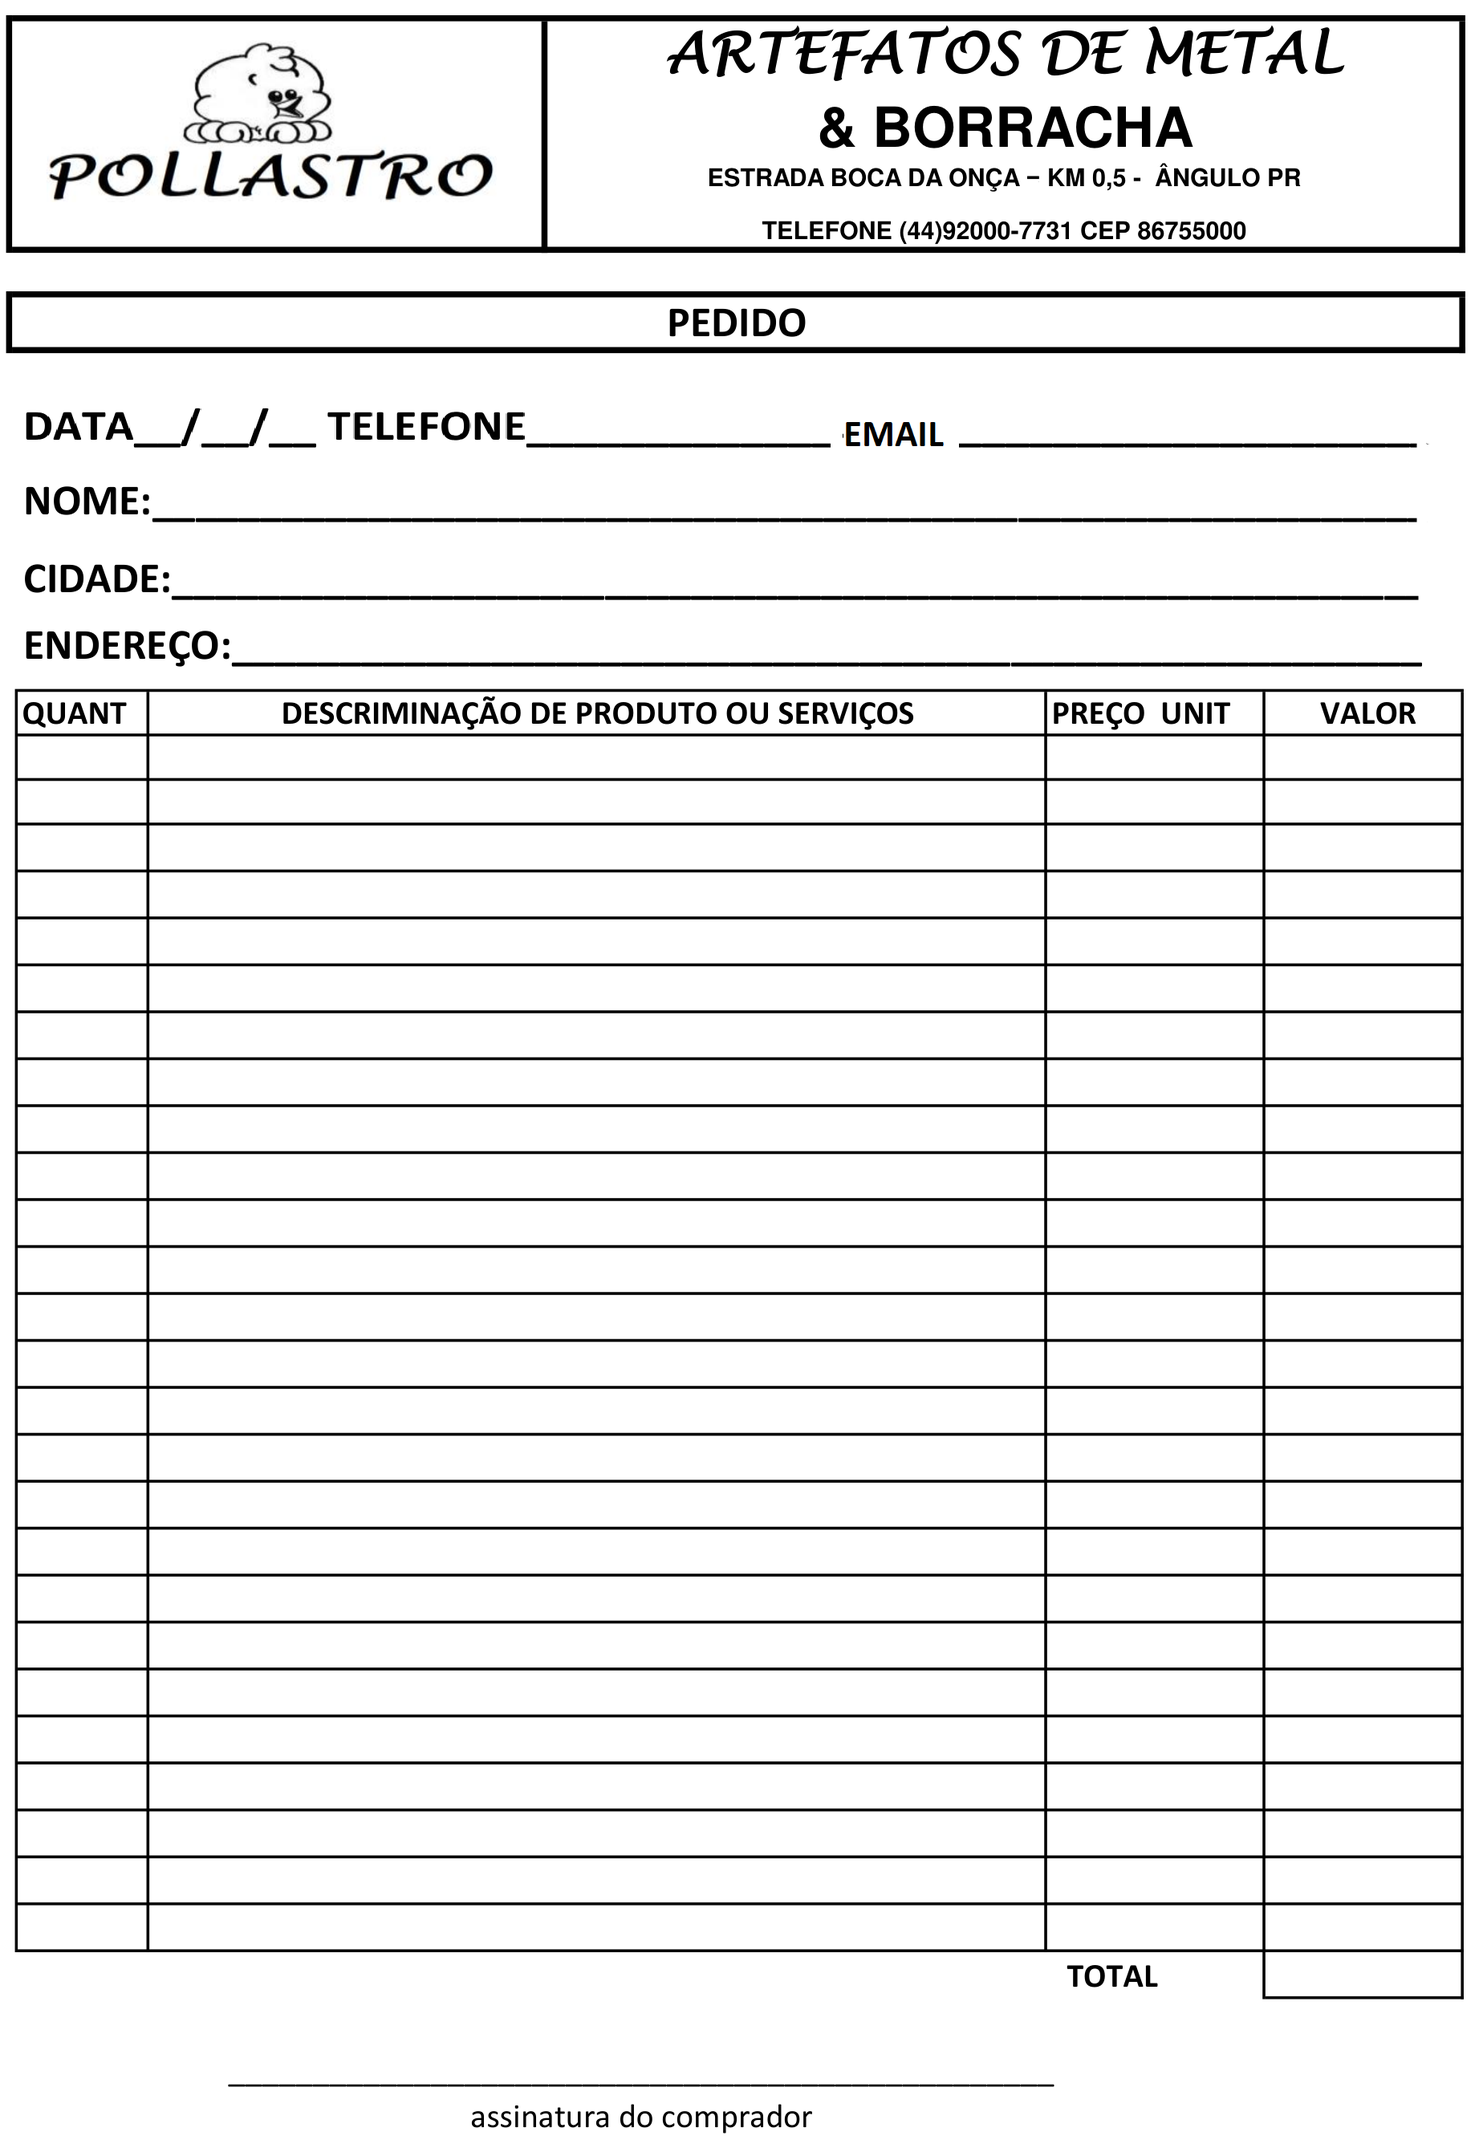
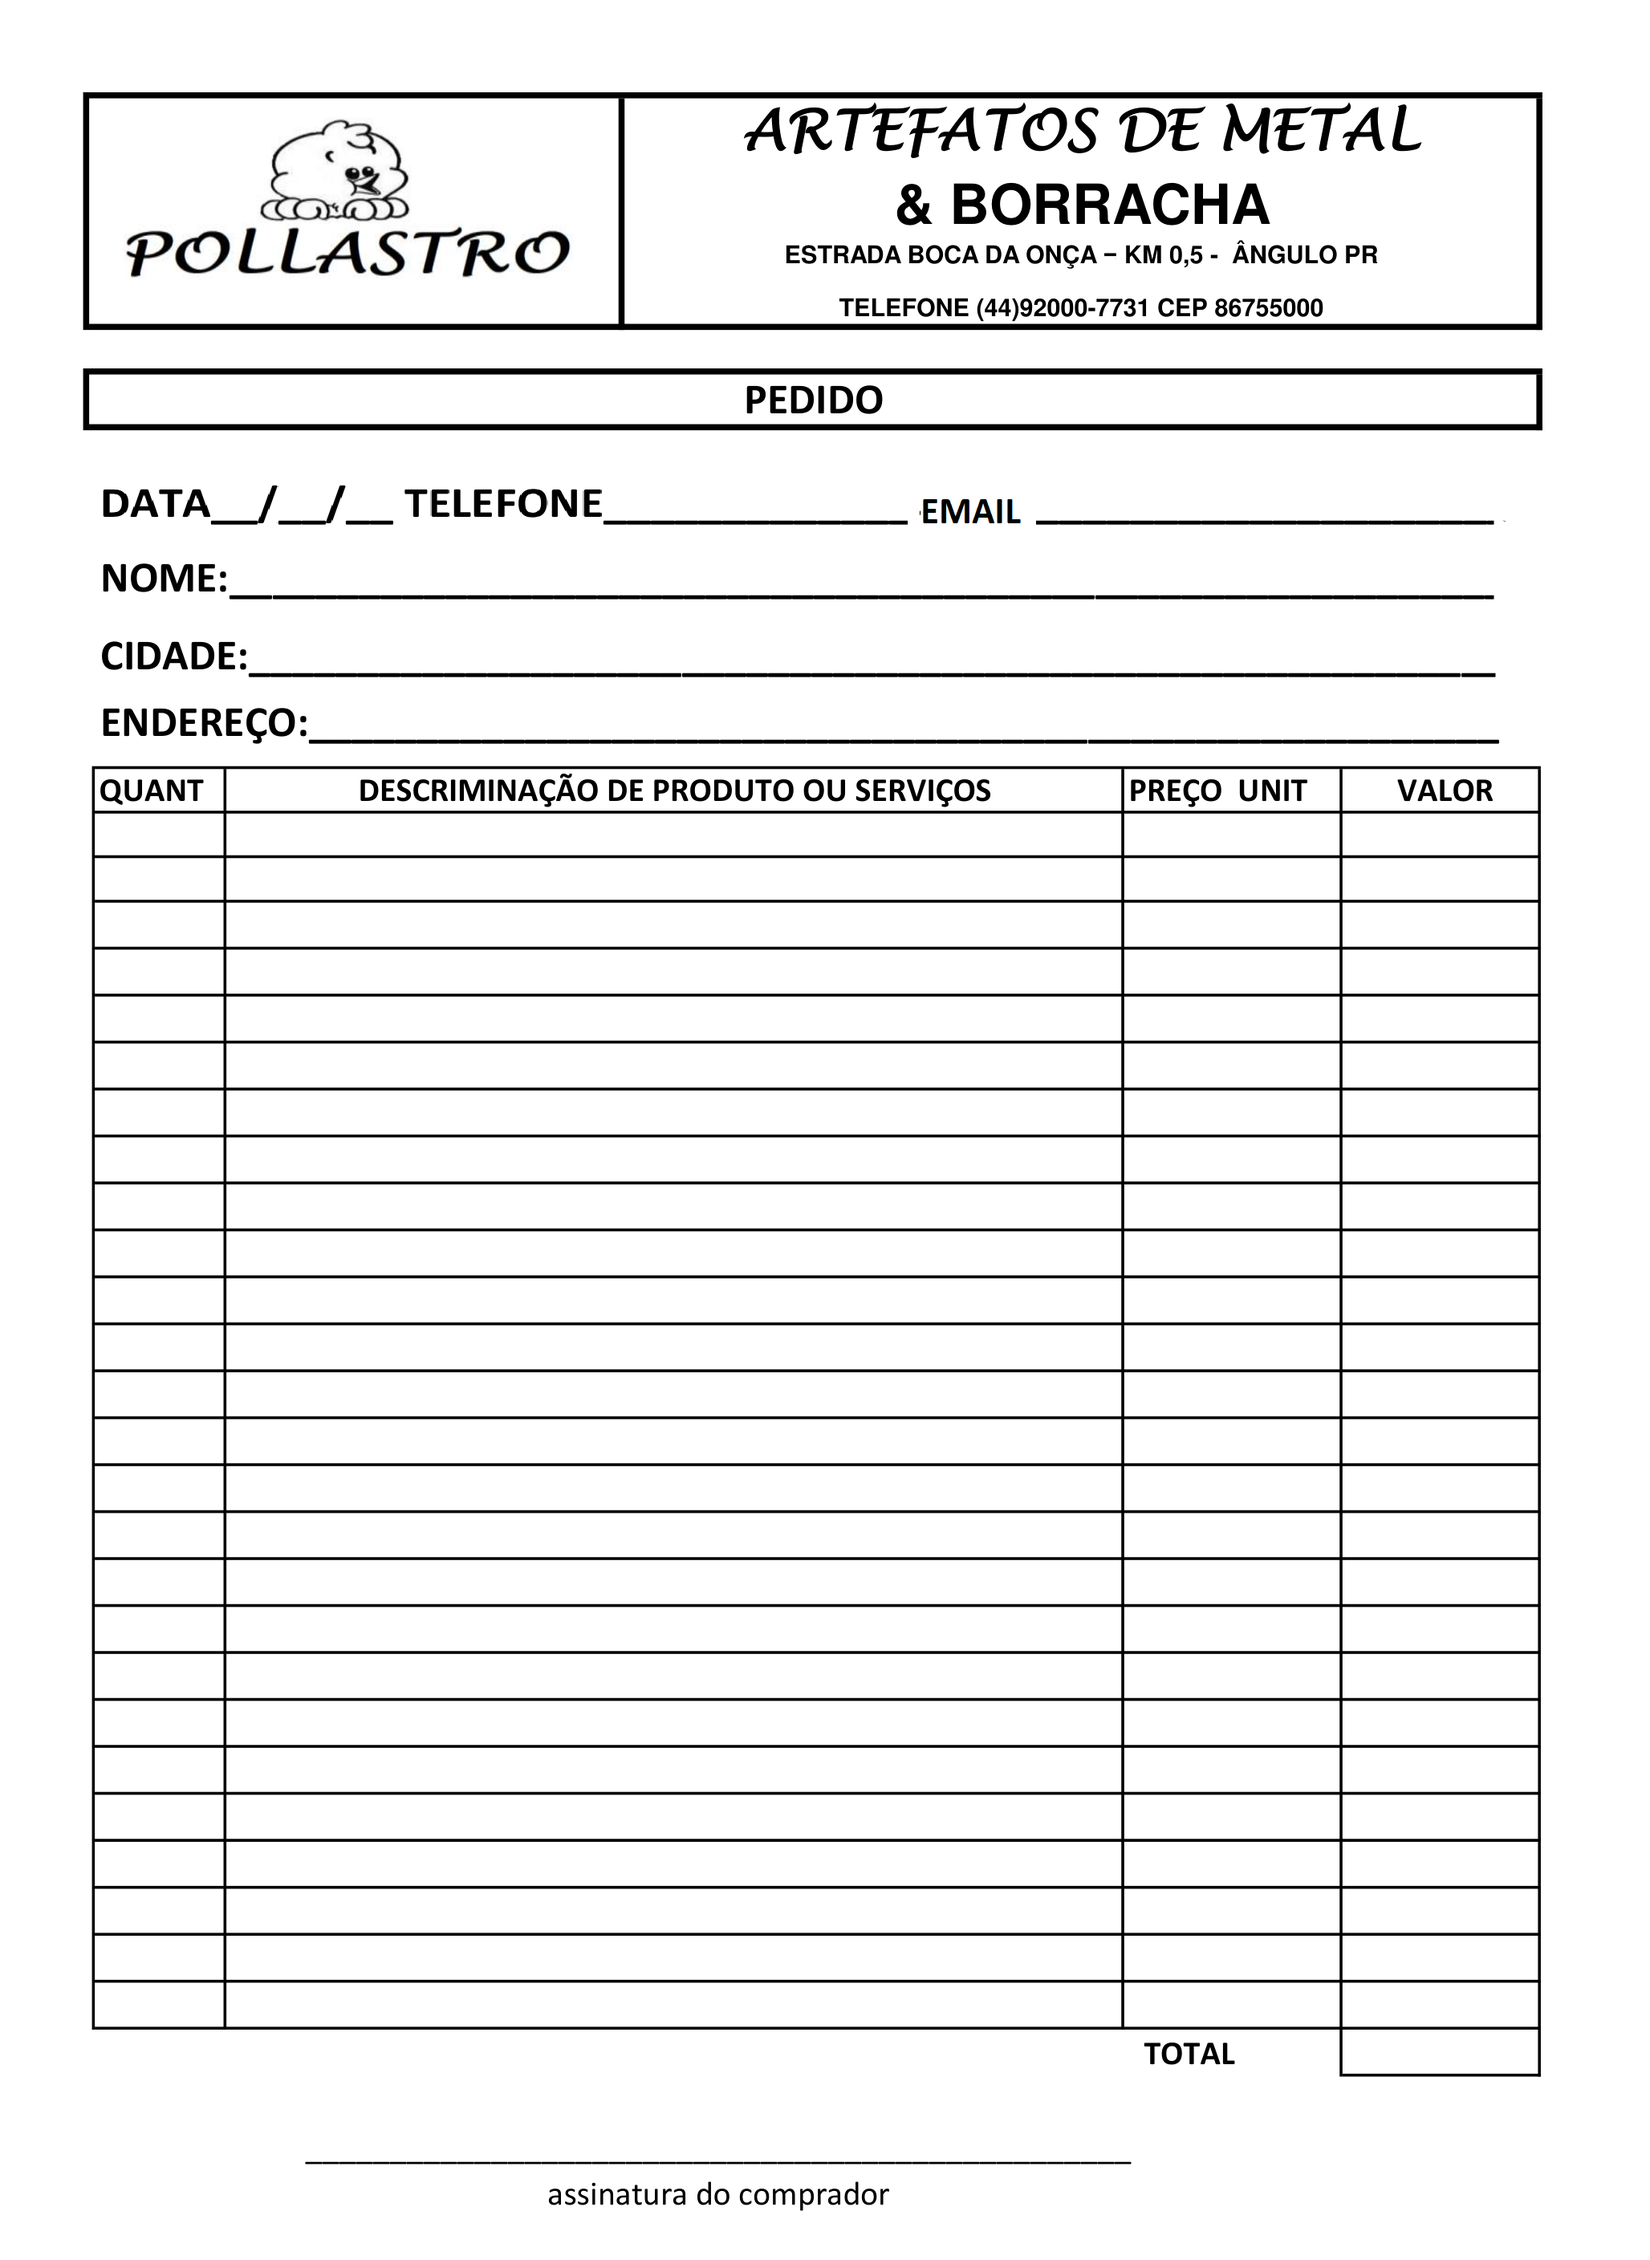
ajustes da nota gerada

Changed region(s): [[0.0, 0.0, 1.0, 0.9319], [0.3093, 0.9629, 0.5567, 0.994]]

diff --git a/frontend/src/components/notaPdfGenerator.tsx b/frontend/src/components/notaPdfGenerator.tsx
@@ -24,59 +24,71 @@ interface NotaData {
 
 
 export async function gerarNotaPDF(nota: NotaData) {
-  const pdfDoc = await PDFDocument.create();
-  const page = pdfDoc.addPage([595, 842]); // tamanho A4 em pontos
-
-  const bgImageBytes = await fetch(backgroundImage).then(res => res.arrayBuffer());
-  const bgImage = await pdfDoc.embedPng(bgImageBytes);
-  page.drawImage(bgImage, {
-    x: 0,
-    y: 0,
-    width: page.getWidth(),
-    height: page.getHeight(),
-  });
-
-  const font = await pdfDoc.embedFont(StandardFonts.Helvetica);
-  const drawText = (text: string, x: number, y: number, size = 15) => {
-    page.drawText(text, {
-      x,
-      y,
-      size,
-      font,
-      color: rgb(0, 0, 0),
-    });
-  };
-
-  // Cabeçalho
-    drawText(nota.data.split("/")[0], 53, 669, 20);               // Data no canto superior direito
-    drawText(nota.data.split("/")[1], 80, 669, 20);               // Data no canto superior direito
-    drawText(nota.data.split("/")[2], 107, 669, 20);               // Data no canto superior direito
-    drawText(nota.telefone, 215, 669);           // Telefone no centro superior
-    drawText(nota.email, 390, 669, 12);              // Email mais à direita
-
-    drawText(String(nota.nome), 65, 640);                // Nome
-    drawText(nota.cidade, 72, 610);             // Cidade
-    drawText(":" + nota.numero + " - Sistema", 330, 708, 20);         // Número da nota no canto superior direito
-
-  // Produtos
-  let y = 537;
-  let total = 0;
-nota.produtos.forEach((item) => {
-  drawText(item.quantidade.toString(), 8, y);                            // Quantidade
-  drawText(item.nome, 60, y);                                           // Descrição
-  drawText(formatarReaisSemSimboloString(item.preco_unitario), 422, y);                      // Preço Unit.
-  drawText(formatarReaisSemSimboloString(item.preco_total), 510, y); // Valor
-  y -= 18;
-  total += parseFloat(item.preco_total)
-});
-
-  // Total
-    drawText(formatarReaisSemSimboloString(String(total.toFixed(2))), 510, 60, 15);
-
-  const pdfBytes = await pdfDoc.save();
-
-  const blob = new Blob([pdfBytes], { type: 'application/pdf' });
-  const pdfUrl = URL.createObjectURL(blob);
-  window.confirm("Deseja baixar este arquivo no seu computador? \n\nClique em 'Cancelar' para somente abrir o arquivo.") ? saveAs(blob, "Nota de Serviço - " + nota.nome + " " + nota.data + ".pdf") : null;
-  window.open(pdfUrl, '_blank');
-}
+    const pdfDoc = await PDFDocument.create();
+    const page = pdfDoc.addPage([842, 595]); // A4 horizontal
+  
+    const bgImageBytes = await fetch(backgroundImage).then(res => res.arrayBuffer());
+    const bgImage = await pdfDoc.embedPng(bgImageBytes);
+    const font = await pdfDoc.embedFont(StandardFonts.Helvetica);
+  
+    const scale = 0.7; // escala de redução
+    const imageWidth = 595 * scale;
+    const imageHeight = 842 * scale;
+  
+    const drawNota = (offsetX: number) => {
+      // Fundo
+      page.drawImage(bgImage, {
+        x: offsetX,
+        y: 0,
+        width: imageWidth,
+        height: imageHeight,
+      });
+  
+      const drawText = (text: string, x: number, y: number, size = 13) => {
+        page.drawText(text, {
+          x: offsetX + x * scale,
+          y: y * scale,
+          size: size * scale,
+          font,
+          color: rgb(0, 0, 0),
+        });
+      };
+  
+      // Cabeçalho
+      drawText(nota.data.split("/")[0], 78, 649, 12);
+      drawText(nota.data.split("/")[1], 103, 649, 12);
+      drawText(nota.data.split("/")[2], 127, 649, 12);
+      drawText(nota.telefone, 220, 651, 12);
+      drawText(nota.email, 376, 651, 12);
+      drawText(String(nota.nome), 85, 621);
+      drawText(nota.cidade, 92, 592);
+      drawText(":" + nota.numero + " - Sistema", 330, 686, 20);
+  
+      // Produtos
+      let y = 526;
+      let total = 0;
+      nota.produtos.forEach((item) => {
+        drawText(item.quantidade.toString(), 70, y);
+        drawText(item.nome, 82, y);
+        drawText(formatarReaisSemSimboloString(item.preco_unitario), 450, y);
+        drawText(formatarReaisSemSimboloString(item.preco_total), 514, y);
+        y -= 18;
+        total += parseFloat(item.preco_total);
+      });
+  
+      // Total
+      drawText(formatarReaisSemSimboloString(String(total.toFixed(2))), 514, 72);
+    };
+  
+    // Duas cópias lado a lado com espaço proporcional
+    drawNota(15); // primeira (esquerda)
+    drawNota(428); // segunda (direita), considerando 595*0.7 + um espaçamento de ~10px
+  
+    const pdfBytes = await pdfDoc.save();
+    const blob = new Blob([pdfBytes], { type: 'application/pdf' });
+    const pdfUrl = URL.createObjectURL(blob);
+    window.confirm("Deseja baixar este arquivo no seu computador? \n\nClique em 'Cancelar' para somente abrir o arquivo.")
+      ? saveAs(blob, `Nota de Serviço - ${nota.nome} ${nota.data}.pdf`)
+      : null;
+    window.open(pdfUrl, '_blank');
+  }

diff --git a/frontend/src/components/_notaPdfGenerator.tsx b/frontend/src/components/_notaPdfGenerator.tsx
@@ -1,0 +1,82 @@
+import { PDFDocument, rgb, StandardFonts } from 'pdf-lib';
+import { formatarReaisSemSimboloString } from "./utils/utils"
+import backgroundImage from '../assets/BLOCO_PEDIDO_POLLASTRO_CUT_NEW.png'; // use a imagem limpa sem escrita
+import { saveAs } from 'file-saver';
+
+interface Produto {
+  nome: string;
+  quantidade: number;
+  preco_unitario: string;
+  preco_total: string;
+}
+
+interface NotaData {
+  numero: string;
+  data: string;
+  nome?: string;
+  cidade: string;
+  telefone: string;
+  email: string;
+  endereco: string;
+  produtos: Produto[];
+}
+
+
+
+export async function gerarNotaPDF(nota: NotaData) {
+  const pdfDoc = await PDFDocument.create();
+  const page = pdfDoc.addPage([595, 842]); // tamanho A4 em pontos
+
+  const bgImageBytes = await fetch(backgroundImage).then(res => res.arrayBuffer());
+  const bgImage = await pdfDoc.embedPng(bgImageBytes);
+  page.drawImage(bgImage, {
+    x: 0,
+    y: 0,
+    width: page.getWidth(),
+    height: page.getHeight(),
+  });
+
+  const font = await pdfDoc.embedFont(StandardFonts.Helvetica);
+  const drawText = (text: string, x: number, y: number, size = 13) => {
+    page.drawText(text, {
+      x,
+      y,
+      size,
+      font,
+      color: rgb(0, 0, 0),
+    });
+  };
+
+  // Cabeçalho
+    drawText(nota.data.split("/")[0], 78, 649, 12);               // Data no canto superior direito
+    drawText(nota.data.split("/")[1], 103, 649, 12);               // Data no canto superior direito
+    drawText(nota.data.split("/")[2], 127, 649, 12);               // Data no canto superior direito
+    drawText(nota.telefone, 220, 651, 12);           // Telefone no centro superior
+    drawText(nota.email, 376, 651, 12);              // Email mais à direita
+
+    drawText(String(nota.nome), 85, 621);                // Nome
+    drawText(nota.cidade, 92, 592);             // Cidade
+    drawText(":" + nota.numero + " - Sistema", 330, 686, 20);         // Número da nota no canto superior direito
+
+  // Produtos
+  let y = 526;
+  let total = 0;
+nota.produtos.forEach((item) => {
+  drawText(item.quantidade.toString(), 70, y);                            // Quantidade
+  drawText(item.nome, 82, y);                                           // Descrição
+  drawText(formatarReaisSemSimboloString(item.preco_unitario), 450, y);                      // Preço Unit.
+  drawText(formatarReaisSemSimboloString(item.preco_total), 514, y); // Valor
+  y -= 18;
+  total += parseFloat(item.preco_total)
+});
+
+  // Total
+    drawText(formatarReaisSemSimboloString(String(total.toFixed(2))), 514, 72);
+
+  const pdfBytes = await pdfDoc.save();
+
+  const blob = new Blob([pdfBytes], { type: 'application/pdf' });
+  const pdfUrl = URL.createObjectURL(blob);
+  window.confirm("Deseja baixar este arquivo no seu computador? \n\nClique em 'Cancelar' para somente abrir o arquivo.") ? saveAs(blob, "Nota de Serviço - " + nota.nome + " " + nota.data + ".pdf") : null;
+  window.open(pdfUrl, '_blank');
+}

diff --git a/frontend/src/styles/global.css b/frontend/src/styles/global.css
@@ -49,7 +49,7 @@ form button.save{
   border: none;
   border-radius: 0.6rem;
   margin-top: 4vh;
-  height: 4vh;
+  height: 6vh;
   background-color: #327735;
   color: white;
   font-size: 1.2rem;
@@ -65,7 +65,7 @@ button.default{
   border: none;
   border-radius: 0.6rem;
   margin-top: 1vh;
-  height: 4vh;
+  height: 6vh;
   width: 100%;
   max-width: 80%;
   background-color: #d3d3d3;
@@ -84,7 +84,7 @@ button.default:hover{
 button.default-form{
   border: none;
   border-radius: 0.6rem;
-  height: 4vh;
+  height: 6vh;
   width: 100%;
   max-width: 100%;
   background-color: #d3d3d3;
@@ -103,7 +103,7 @@ input, select, option {
   display: flex;
   flex-direction: column;
   width: 100%;
-  height: 4vh;
+  height: 6vh;
   background-color: #ffffff;
   color: black;
   font-size: 1.2rem;
